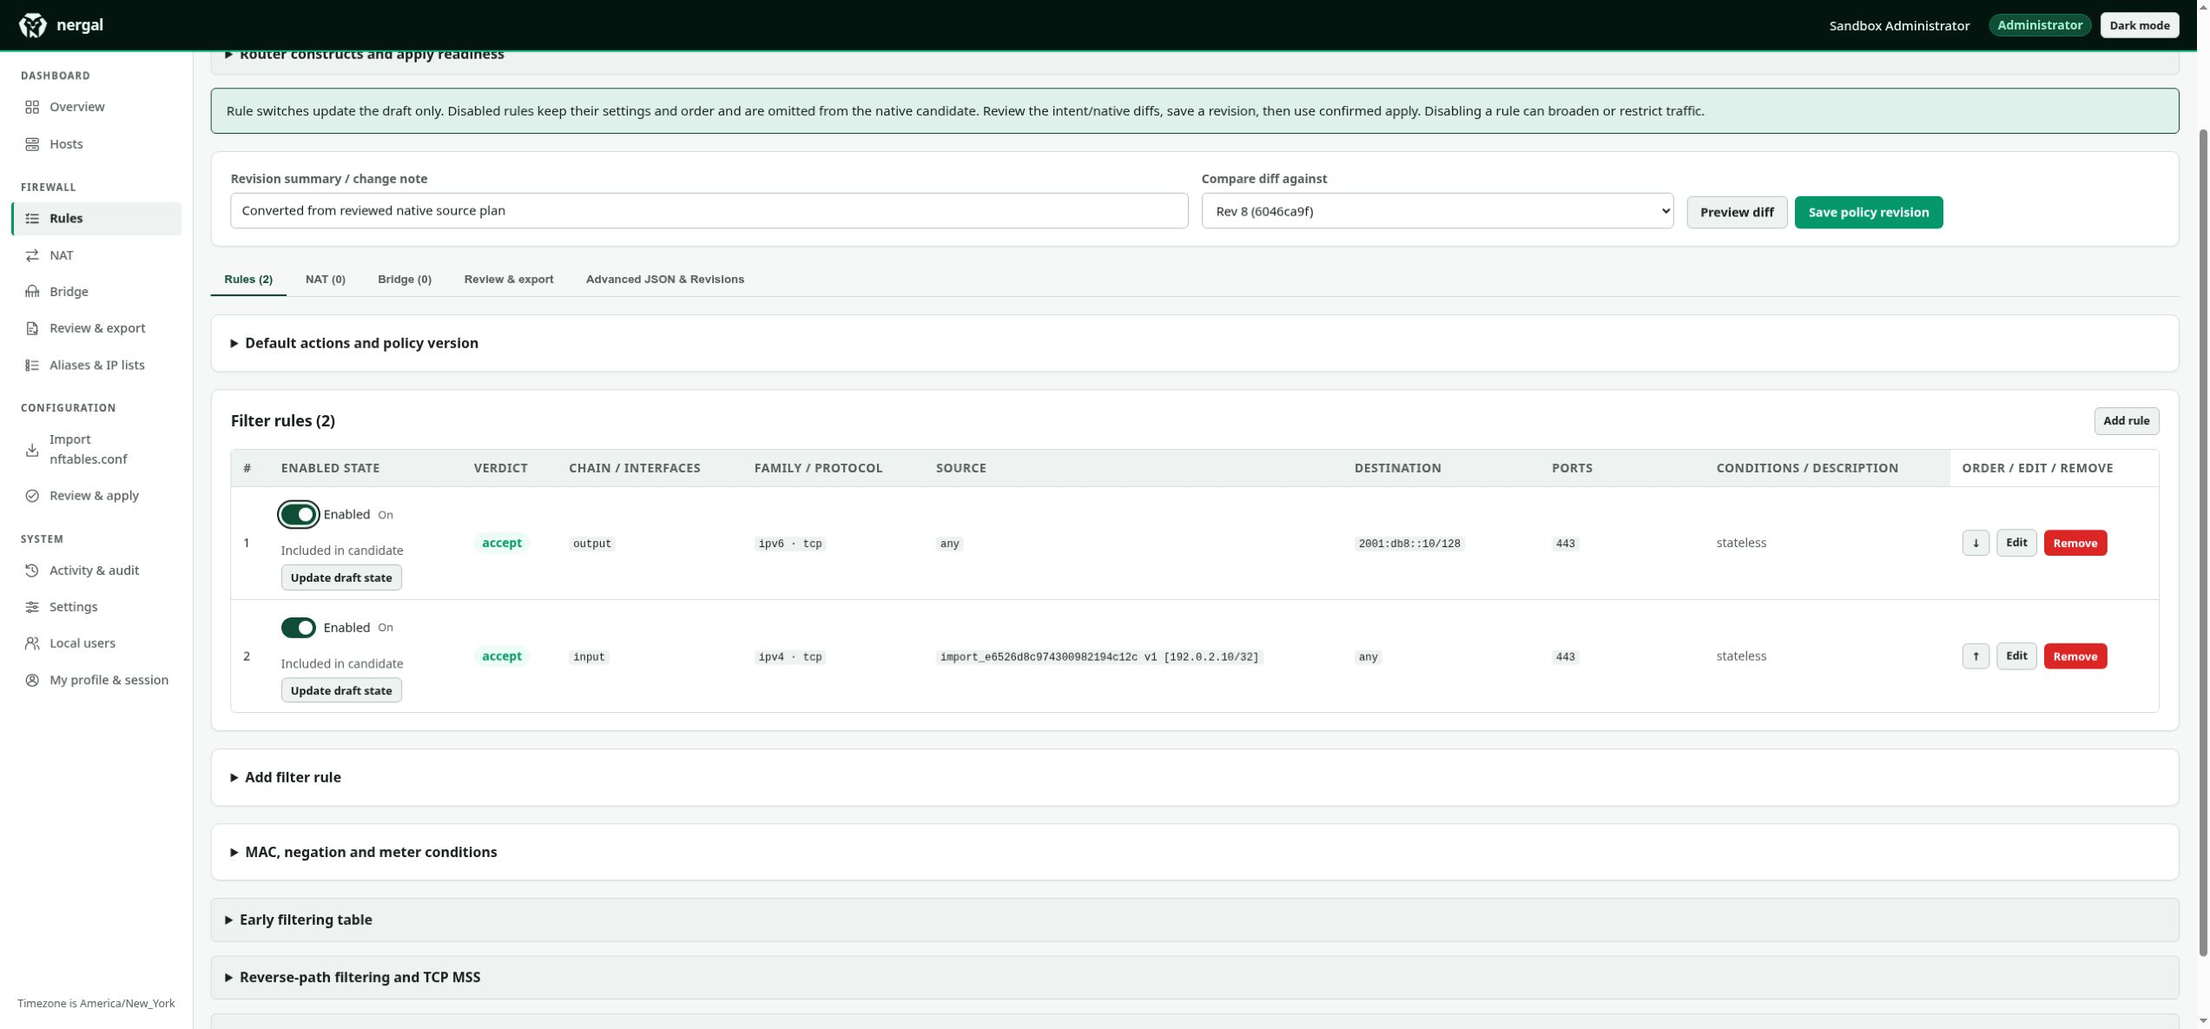
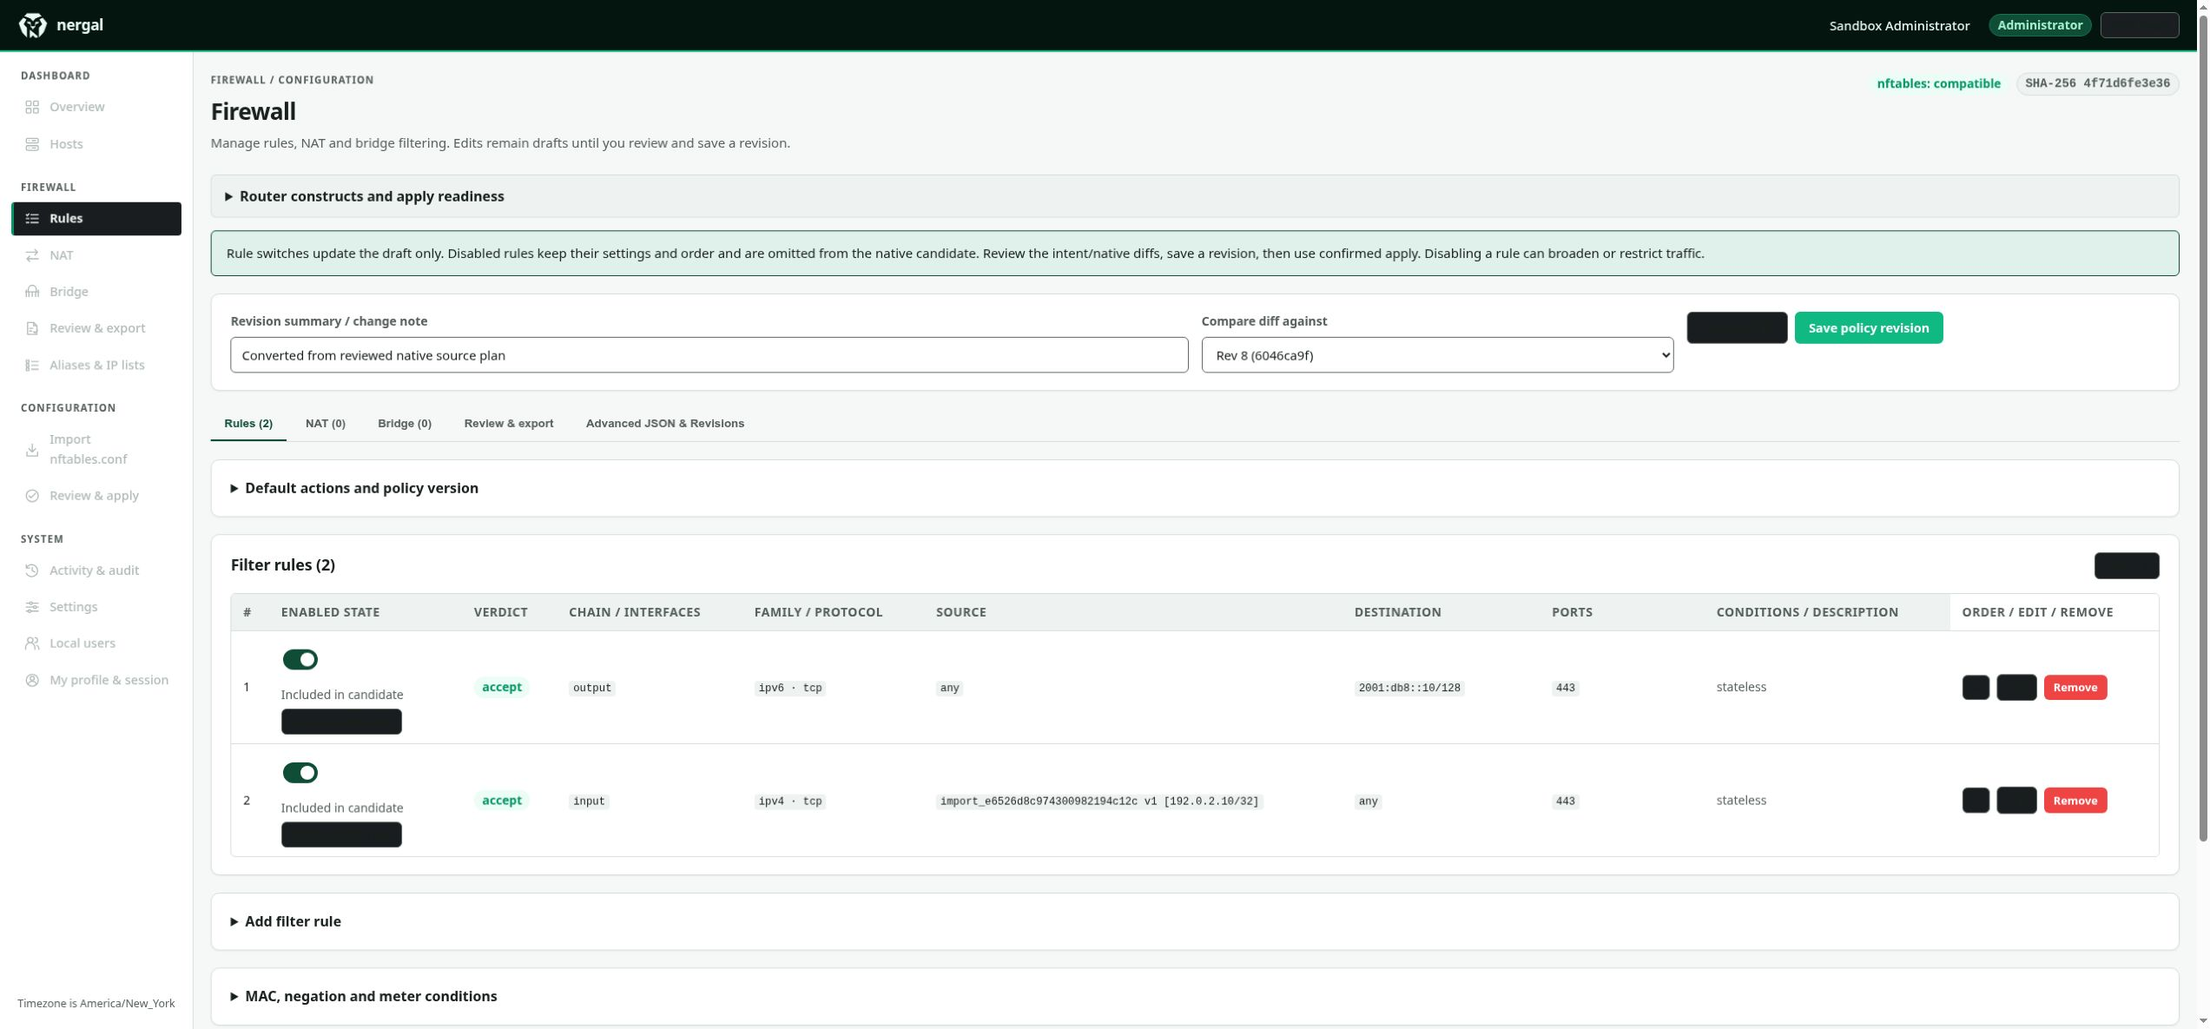
Refine switch colors and accessibility and align responsive forms

diff --git a/pages/assets/application.css b/pages/assets/application.css
@@ -446,7 +446,9 @@ pre {
   font-size: 0.78rem;
   font-weight: 600;
   line-height: 1.3;
-  white-space: nowrap;
+  white-space: normal;
+  max-width: 100%;
+  overflow-wrap: anywhere;
 }
 
 /* Full artifact digests must wrap inside narrow candidate/review cards. */
@@ -481,9 +483,9 @@ pre {
 .form-stack { display: grid; gap: .9rem; }
 .form-grid {
   display: grid;
-  grid-template-columns: repeat(auto-fit, minmax(195px, 1fr));
+  grid-template-columns: repeat(4, minmax(0, 1fr));
   gap: 0.9rem;
-  align-items: end;
+  align-items: start;
 }
 
 .field {
@@ -496,10 +498,19 @@ pre {
 .field.span-2 {
   grid-column: span 2;
 }
+.field.form-full { grid-column: 1 / -1; }
+.form-grid-addresses { grid-template-columns: repeat(2, minmax(0, 1fr)); }
+.form-grid-route { grid-template-columns: repeat(3, minmax(0, 1fr)); }
+@media (max-width: 1100px) {
+  .form-grid, .form-grid-route { grid-template-columns: repeat(2, minmax(0, 1fr)); }
+}
 
 @media (max-width: 640px) {
+  .form-grid, .form-grid-addresses, .form-grid-route { grid-template-columns: minmax(0, 1fr); }
   .field.span-2 { grid-column: span 1; }
 }
+
+.field > label:not(.enablement-switch) { min-height: 1.5rem; }
 
 .field label, label.field-label {
   font-size: 0.82rem;
@@ -526,16 +537,14 @@ textarea {
 input::placeholder, textarea::placeholder { color: var(--text-muted); opacity: 1; }
 textarea:not(.code-editor) { min-height: 7rem; resize: vertical; }
 input[type="checkbox"], input[type="radio"] { width: 1rem; height: 1rem; margin: 0; flex: 0 0 auto; accent-color: var(--link, var(--primary)); }
-.enablement-switch { display: inline-flex; align-items: center; gap: .55rem; min-height: 2.75rem; margin: 0; color: var(--text); font-size: .9rem; cursor: pointer; }
-.enablement-switch input[role="switch"] { appearance: none; position: relative; width: 2.5rem; height: 1.5rem; border: 2px solid var(--text-muted); border-radius: 999px; background: var(--surface-subtle); cursor: pointer; }
-.enablement-switch input[role="switch"]::after { content: ""; position: absolute; width: 1rem; height: 1rem; left: .125rem; top: .125rem; border-radius: 50%; background: var(--text-muted); }
+.enablement-switch { display: inline-flex; align-items: center; justify-content: center; min-width: 2.75rem; min-height: 2.75rem; margin: 0; color: var(--text); font-size: .9rem; cursor: pointer; }
+.enablement-switch input[role="switch"] { appearance: none; position: relative; width: 2.5rem; height: 1.5rem; border: 2px solid var(--danger); border-radius: 999px; background: var(--danger-soft); cursor: pointer; }
+.enablement-switch input[role="switch"]::after { content: ""; position: absolute; width: 1rem; height: 1rem; left: .125rem; top: .125rem; border-radius: 50%; background: var(--danger); }
 .enablement-switch input[role="switch"]:checked { border-color: var(--primary); background: var(--primary); }
 .enablement-switch input[role="switch"]:checked::after { transform: translateX(1rem); background: var(--surface); }
 .enablement-switch input[role="switch"]:focus-visible { outline: 2px solid var(--text); outline-offset: 3px; }
 .enablement-switch input[role="switch"]:disabled { cursor: not-allowed; }
-.switch-state { color: var(--text-muted); font-size: .8rem; min-width: 1.5rem; }
-.switch-on, .enablement-switch input:checked ~ .switch-state .switch-off { display: none; }
-.enablement-switch input:checked ~ .switch-state .switch-on { display: inline; }
+.switch-field-label { display: block; color: var(--text-muted); font-size: .875rem; font-weight: 600; }
 @media (forced-colors: active) {
   .enablement-switch input[role="switch"] { border-color: ButtonText; }
   .enablement-switch input[role="switch"]::after { background: ButtonText; }
@@ -903,7 +912,7 @@ input[type="file"]::file-selector-button {
 .management-shell .topbar-meta { margin-left: auto; }
 .appliance-shell { display: grid; grid-template-columns: 224px minmax(0, 1fr); align-items: start; min-height: calc(100dvh - 60px); }
 .appliance-sidebar { position: sticky; top: 60px; height: calc(100dvh - 60px); overflow: hidden; padding: 1.2rem .8rem; border-right: 1px solid var(--border); background: var(--surface); }
-.appliance-content { min-width: 0; min-height: calc(100dvh - 60px); }
+.appliance-content { min-width: 0; overflow-wrap: anywhere; min-height: calc(100dvh - 60px); }
 .appliance-content > .container, .appliance-content > .container-narrow { width: 100%; max-width: none; margin: 0; padding: 1.5rem 1.25rem 3rem; }
 .appliance-nav { display: flex; flex-direction: column; height: 100%; }
 .nav-sections { min-height: 0; overflow-y: auto; }

diff --git a/src/Nergal.Web/wwwroot/css/nergal.css b/src/Nergal.Web/wwwroot/css/nergal.css
@@ -446,7 +446,9 @@ pre {
   font-size: 0.78rem;
   font-weight: 600;
   line-height: 1.3;
-  white-space: nowrap;
+  white-space: normal;
+  max-width: 100%;
+  overflow-wrap: anywhere;
 }
 
 /* Full artifact digests must wrap inside narrow candidate/review cards. */
@@ -481,9 +483,9 @@ pre {
 .form-stack { display: grid; gap: .9rem; }
 .form-grid {
   display: grid;
-  grid-template-columns: repeat(auto-fit, minmax(195px, 1fr));
+  grid-template-columns: repeat(4, minmax(0, 1fr));
   gap: 0.9rem;
-  align-items: end;
+  align-items: start;
 }
 
 .field {
@@ -496,10 +498,19 @@ pre {
 .field.span-2 {
   grid-column: span 2;
 }
+.field.form-full { grid-column: 1 / -1; }
+.form-grid-addresses { grid-template-columns: repeat(2, minmax(0, 1fr)); }
+.form-grid-route { grid-template-columns: repeat(3, minmax(0, 1fr)); }
+@media (max-width: 1100px) {
+  .form-grid, .form-grid-route { grid-template-columns: repeat(2, minmax(0, 1fr)); }
+}
 
 @media (max-width: 640px) {
+  .form-grid, .form-grid-addresses, .form-grid-route { grid-template-columns: minmax(0, 1fr); }
   .field.span-2 { grid-column: span 1; }
 }
+
+.field > label:not(.enablement-switch) { min-height: 1.5rem; }
 
 .field label, label.field-label {
   font-size: 0.82rem;
@@ -526,16 +537,14 @@ textarea {
 input::placeholder, textarea::placeholder { color: var(--text-muted); opacity: 1; }
 textarea:not(.code-editor) { min-height: 7rem; resize: vertical; }
 input[type="checkbox"], input[type="radio"] { width: 1rem; height: 1rem; margin: 0; flex: 0 0 auto; accent-color: var(--link, var(--primary)); }
-.enablement-switch { display: inline-flex; align-items: center; gap: .55rem; min-height: 2.75rem; margin: 0; color: var(--text); font-size: .9rem; cursor: pointer; }
-.enablement-switch input[role="switch"] { appearance: none; position: relative; width: 2.5rem; height: 1.5rem; border: 2px solid var(--text-muted); border-radius: 999px; background: var(--surface-subtle); cursor: pointer; }
-.enablement-switch input[role="switch"]::after { content: ""; position: absolute; width: 1rem; height: 1rem; left: .125rem; top: .125rem; border-radius: 50%; background: var(--text-muted); }
+.enablement-switch { display: inline-flex; align-items: center; justify-content: center; min-width: 2.75rem; min-height: 2.75rem; margin: 0; color: var(--text); font-size: .9rem; cursor: pointer; }
+.enablement-switch input[role="switch"] { appearance: none; position: relative; width: 2.5rem; height: 1.5rem; border: 2px solid var(--danger); border-radius: 999px; background: var(--danger-soft); cursor: pointer; }
+.enablement-switch input[role="switch"]::after { content: ""; position: absolute; width: 1rem; height: 1rem; left: .125rem; top: .125rem; border-radius: 50%; background: var(--danger); }
 .enablement-switch input[role="switch"]:checked { border-color: var(--primary); background: var(--primary); }
 .enablement-switch input[role="switch"]:checked::after { transform: translateX(1rem); background: var(--surface); }
 .enablement-switch input[role="switch"]:focus-visible { outline: 2px solid var(--text); outline-offset: 3px; }
 .enablement-switch input[role="switch"]:disabled { cursor: not-allowed; }
-.switch-state { color: var(--text-muted); font-size: .8rem; min-width: 1.5rem; }
-.switch-on, .enablement-switch input:checked ~ .switch-state .switch-off { display: none; }
-.enablement-switch input:checked ~ .switch-state .switch-on { display: inline; }
+.switch-field-label { display: block; color: var(--text-muted); font-size: .875rem; font-weight: 600; }
 @media (forced-colors: active) {
   .enablement-switch input[role="switch"] { border-color: ButtonText; }
   .enablement-switch input[role="switch"]::after { background: ButtonText; }
@@ -903,7 +912,7 @@ input[type="file"]::file-selector-button {
 .management-shell .topbar-meta { margin-left: auto; }
 .appliance-shell { display: grid; grid-template-columns: 224px minmax(0, 1fr); align-items: start; min-height: calc(100dvh - 60px); }
 .appliance-sidebar { position: sticky; top: 60px; height: calc(100dvh - 60px); overflow: hidden; padding: 1.2rem .8rem; border-right: 1px solid var(--border); background: var(--surface); }
-.appliance-content { min-width: 0; min-height: calc(100dvh - 60px); }
+.appliance-content { min-width: 0; overflow-wrap: anywhere; min-height: calc(100dvh - 60px); }
 .appliance-content > .container, .appliance-content > .container-narrow { width: 100%; max-width: none; margin: 0; padding: 1.5rem 1.25rem 3rem; }
 .appliance-nav { display: flex; flex-direction: column; height: 100%; }
 .nav-sections { min-height: 0; overflow-y: auto; }

diff --git a/tests/integration/local-sessions/check-settings.py b/tests/integration/local-sessions/check-settings.py
@@ -17,11 +17,14 @@ class Fields(HTMLParser):
     def __init__(self):
         super().__init__()
         self.fields = {}
+        self.switches = {}
         self.select = None
         self.first = True
 
     def handle_starttag(self, tag, attrs):
         a = dict(attrs)
+        if tag == 'input' and a.get('role') == 'switch':
+            self.switches[a['name']] = a
         if tag == 'input' and a.get('name'):
             if a.get('type') in ('checkbox', 'radio') and 'checked' not in a:
                 return
@@ -70,6 +73,8 @@ def main():
             assert 'do not reconfigure the running services' in html
             assert 'synthetic' in browser.request('/manage/sources', 200)
             fields = Fields(); fields.feed(html)
+            assert set(fields.switches) == {'localAuthEnabled', 'oidcEnabled', 'ldapEnabled', 'ldapUseStartTls', 'requireChangeSummary'}
+            assert all(a.get('aria-label') for a in fields.switches.values())
             # The login notice is optional and textarea controls have no default value here.
             fields.fields['applicationName'] = 'Synthetic Console'
             invalid = {**fields.fields, 'defaultConfirmationTimeoutSeconds': '0'}
@@ -85,9 +90,9 @@ def main():
         with sessions.host(root, tls, {**settings, 'LocalSessions__AccountDirectory': str(auditor)}) as browser:
             browser.login()
             readonly = browser.request('/manage/settings', 200)
-            from re import findall
-            switches = findall(r'<input[^>]*role="switch"[^>]*>', readonly)
-            assert len(switches) == 5 and all('disabled="disabled"' in value for value in switches)
+            readonly_fields = Fields(); readonly_fields.feed(readonly)
+            assert len(readonly_fields.switches) == 5
+            assert all('disabled' in a and a.get('aria-label') for a in readonly_fields.switches.values())
             browser.request('/manage/sources', 403)
             fields.fields['__RequestVerificationToken'] = browser.token('/manage/settings')
             assert post(browser, fields.fields)[0] == 403

diff --git a/src/Nergal.Web/Models/EnablementSwitchModel.cs b/src/Nergal.Web/Models/EnablementSwitchModel.cs
@@ -3,7 +3,7 @@ namespace Nergal.Web;
 /// <summary>A shared, keyboard-operable on/off form control. Unchecked switches omit their field, like native boolean inputs.</summary>
 /// <param name="Name">Explicit form field name.</param>
 /// <param name="Enabled">Current proposed form state; rendering never persists it.</param>
-/// <param name="Label">Stable visible label for the enabled feature.</param>
+/// <param name="Label">Stable screen-reader label for the enabled feature; no text is drawn beside the switch.</param>
 /// <param name="AccessibleLabel">Optional contextual name, for example a rule or account name.</param>
 /// <param name="DescriptionId">Optional ID of associated guidance.</param>
 /// <param name="FormId">Optional owning form when rendered outside the form element.</param>

diff --git a/scripts/verify-pages.py b/scripts/verify-pages.py
@@ -88,6 +88,8 @@ REQUIRED_FILES = [
     "local-users-and-profiles.md",
     "assets/screenshots/m5-users-dark.jpg",
     "assets/screenshots/enablement-settings-dark.jpg",
+    "assets/screenshots/rule-form-layout-dark.jpg",
+    "assets/screenshots/rule-form-layout-mobile.jpg",
     "assets/screenshots/enablement-settings-light.jpg",
     "assets/screenshots/m5-users-light.jpg",
     "assets/screenshots/m5-profile-dark.jpg",

diff --git a/pages/rule-enabled-state.md b/pages/rule-enabled-state.md
@@ -22,8 +22,7 @@ its enabled flag. Removing a rule is a different operation.
 
 Disabling an accept rule may block traffic. Disabling a drop or return exemption
 may broaden traffic or expose a later NAT translation; disabling an MSS clamp can
-change connectivity. Chain defaults and subsequent rules remain in effect. A
-switch is not an immediate host switch and disabled does not mean "safe".
+change connectivity. Chain defaults and subsequent rules remain in effect. Changes reach a host only after revision review and confirmed apply.
 
 ## Validation and native observation
 
@@ -53,7 +52,7 @@ See [the remaining milestones](milestones.md) and [testing evidence](testing-and
 ![Inline enabled state and retained pinned references](assets/screenshots/rule-states-dark.jpg)
 
 Enablement uses the same labelled on/off switch as local-user access and system
-settings. Tab focuses a switch; Space changes its proposed state. The visual knob,
-On/Off text and assistive-technology switch state all reflect the current form
-value. Switches work without JavaScript. Use the separate save/update action to
+settings. Tab focuses a switch; Space changes its proposed state. The knob position, green enabled/red disabled colors and
+assistive-technology switch state reflect the current form value. Switches have
+descriptive screen-reader names without visible state text. Switches work without JavaScript. Use the separate save/update action to
 submit; firewall rules still require revision review and confirmed apply.

diff --git a/docs/rule-enabled-state.md b/docs/rule-enabled-state.md
@@ -22,8 +22,7 @@ its enabled flag. Removing a rule is a different operation.
 
 Disabling an accept rule may block traffic. Disabling a drop or return exemption
 may broaden traffic or expose a later NAT translation; disabling an MSS clamp can
-change connectivity. Chain defaults and subsequent rules remain in effect. A
-switch is not an immediate host switch and disabled does not mean "safe".
+change connectivity. Chain defaults and subsequent rules remain in effect. Changes reach a host only after revision review and confirmed apply.
 
 ## Validation and native observation
 
@@ -52,7 +51,7 @@ See [ADR 0041](decisions/0041-versioned-rule-enabled-state.md) and
 [the remaining milestones](milestones.md).
 
 Enablement uses the same labelled on/off switch as local-user access and system
-settings. Tab focuses a switch; Space changes its proposed state. The visual knob,
-On/Off text and assistive-technology switch state all reflect the current form
-value. Switches work without JavaScript. Use the separate save/update action to
+settings. Tab focuses a switch; Space changes its proposed state. The knob position, green enabled/red disabled colors and
+assistive-technology switch state reflect the current form value. Switches have
+descriptive screen-reader names without visible state text. Switches work without JavaScript. Use the separate save/update action to
 submit; firewall rules still require revision review and confirmed apply.

diff --git a/docs/appliance-console.md b/docs/appliance-console.md
@@ -111,3 +111,14 @@ captured; use the task map above for their current location.
 Enable/disable controls use a shared labelled on/off switch throughout rules,
 local-user access and settings. Save/update actions remain explicit. Match selection
 and negation controls retain their separate selection semantics.
+
+Forms align controls from the top and use at most four columns, reducing to two
+and one at narrower widths. New filter rules group basic choices, source/destination
+networks and ports/interfaces into separate rows so wrapped hints cannot stagger
+related inputs. Switches show green for enabled and muted red for disabled, with
+knob position conveying the state as well. Screen-reader descriptions remain;
+visible field labels identify settings without repeating state text beside switches.
+
+![Aligned filter-rule form](../pages/assets/screenshots/rule-form-layout-dark.jpg)
+
+[Mobile form](../pages/assets/screenshots/rule-form-layout-mobile.jpg) uses one column without page overflow.

diff --git a/pages/appliance-console.md b/pages/appliance-console.md
@@ -111,3 +111,14 @@ captured; use the task map above for their current location.
 Enable/disable controls use a shared labelled on/off switch throughout rules,
 local-user access and settings. Save/update actions remain explicit. Match selection
 and negation controls retain their separate selection semantics.
+
+Forms align controls from the top and use at most four columns, reducing to two
+and one at narrower widths. New filter rules group basic choices, source/destination
+networks and ports/interfaces into separate rows so wrapped hints cannot stagger
+related inputs. Switches show green for enabled and muted red for disabled, with
+knob position conveying the state as well. Screen-reader descriptions remain;
+visible field labels identify settings without repeating state text beside switches.
+
+![Aligned filter-rule form](assets/screenshots/rule-form-layout-dark.jpg)
+
+[Mobile form](assets/screenshots/rule-form-layout-mobile.jpg) uses one column without page overflow.

diff --git a/docs/testing.md b/docs/testing.md
@@ -831,3 +831,10 @@ allowing the unchecked switch to be absent, and deny unknown/repeated fields. Re
 HTTPS checks exercise on/off user access, last-admin protection, revoked replay and
 invalid boolean denial; rule states retain complete draft/revision contents. Settings
 checks verify all five enablement switches and disabled Auditor presentation.
+
+Form-layout browser checks measure aligned input tops within each basic/network/
+transport row and equal 42px control heights. At a 375px viewport the rule form
+uses one column without horizontal page overflow; long badges and imported object
+identifiers wrap. Protocol changes still select the transport versus ICMP control.
+Text-free switches retain accessible names, keyboard operation and distinct
+red/green states with knob position as a non-color cue.

diff --git a/docs/local-users-and-profiles.md b/docs/local-users-and-profiles.md
@@ -12,7 +12,7 @@ version is adopted, migrated or reset by the application.
 - Create an explicitly named local Administrator or Auditor. Names use 1–64 ASCII
   letters, digits, dots, underscores or hyphens and are case-insensitive. Initial
   passwords use the existing Identity hasher and 15–128 Unicode-character bounds.
-- Change a role or use the **Access enabled** switch, then choose **Save access**. Disabling retains
+- Change a role or use the switch in **Access**, then choose **Save access**. Disabling retains
   the account identity, profile and history. It blocks password sign-in and
   invalidates existing tickets; reenabling cannot resurrect old tickets.
 - Keep at least one enabled local Administrator. The check runs inside the same

diff --git a/pages/local-users-and-profiles.md b/pages/local-users-and-profiles.md
@@ -12,7 +12,7 @@ version is adopted, migrated or reset by the application.
 - Create an explicitly named local Administrator or Auditor. Names use 1–64 ASCII
   letters, digits, dots, underscores or hyphens and are case-insensitive. Initial
   passwords use the existing Identity hasher and 15–128 Unicode-character bounds.
-- Change a role or use the **Access enabled** switch, then choose **Save access**. Disabling retains
+- Change a role or use the switch in **Access**, then choose **Save access**. Disabling retains
   the account identity, profile and history. It blocks password sign-in and
   invalidates existing tickets; reenabling cannot resurrect old tickets.
 - Keep at least one enabled local Administrator. The check runs inside the same
